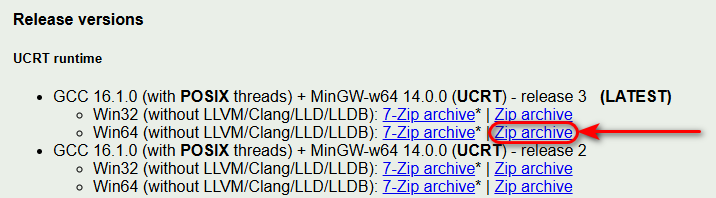
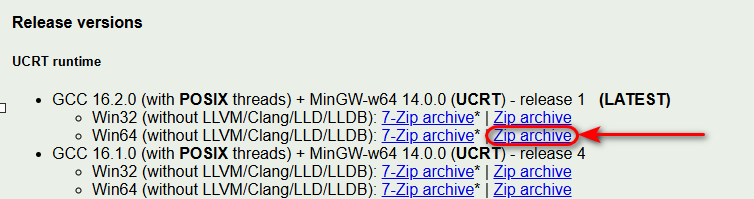
Upgrade to MinGW GCC 16.2

diff --git a/index.html b/index.html
@@ -251,8 +251,8 @@
                         <span class="data-ru">Настройка среды разработки C/C++ для Windows (MinGW, CMake и IDE)</span>
                     </h5>
                     <p class="card-text text-muted small">
-                        <span class="data-en">Installing MinGW 16.1, CMake, Qt Creator, and CLion for professional C/C++ development on Windows.</span>
-                        <span class="data-ru">Установка MinGW 16.1, CMake, Qt Creator и CLion для профессиональной разработки на C/C++ в Windows.</span>
+                        <span class="data-en">Installing MinGW 16.2, CMake, Qt Creator, and CLion for professional C/C++ development on Windows.</span>
+                        <span class="data-ru">Установка MinGW 16.2, CMake, Qt Creator и CLion для профессиональной разработки на C/C++ в Windows.</span>
                     </p>
                     <a href="/tutorials/tools/mingw/setup-mingw/" target="_blank" class="btn btn-outline-dark btn-sm lang-link-dynamic">View</a>
                 </div>
@@ -721,8 +721,8 @@
                         <span class="data-ru">Настройка среды разработки C/C++ для Windows (MinGW, CMake и IDE)</span>
                     </h5>
                     <p class="card-text text-muted small">
-                        <span class="data-en">Installing MinGW 16.1, CMake, Qt Creator, and CLion for professional C/C++ development on Windows.</span>
-                        <span class="data-ru">Установка MinGW 16.1, CMake, Qt Creator и CLion для профессиональной разработки на C/C++ в Windows.</span>
+                        <span class="data-en">Installing MinGW 16.2, CMake, Qt Creator, and CLion for professional C/C++ development on Windows.</span>
+                        <span class="data-ru">Установка MinGW 16.2, CMake, Qt Creator и CLion для профессиональной разработки на C/C++ в Windows.</span>
                     </p>
                     <a href="/tutorials/tools/mingw/setup-mingw/" target="_blank" class="btn btn-outline-dark btn-sm lang-link-dynamic">View</a>
                 </div>
@@ -800,8 +800,8 @@
                         <span class="data-ru">Настройка среды разработки C/C++ для Windows (MinGW, CMake и IDE)</span>
                     </h5>
                     <p class="card-text text-muted small">
-                        <span class="data-en">Installing MinGW 16.1, CMake, Qt Creator, and CLion for professional C/C++ development on Windows.</span>
-                        <span class="data-ru">Установка MinGW 16.1, CMake, Qt Creator и CLion для профессиональной разработки на C/C++ в Windows.</span>
+                        <span class="data-en">Installing MinGW 16.2, CMake, Qt Creator, and CLion for professional C/C++ development on Windows.</span>
+                        <span class="data-ru">Установка MinGW 16.2, CMake, Qt Creator и CLion для профессиональной разработки на C/C++ в Windows.</span>
                     </p>
                     <a href="/tutorials/tools/mingw/setup-mingw/" target="_blank" class="btn btn-outline-dark btn-sm lang-link-dynamic">View</a>
                 </div>
@@ -879,8 +879,8 @@
                         <span class="data-ru">Настройка среды разработки C/C++ для Windows (MinGW, CMake и IDE)</span>
                     </h5>
                     <p class="card-text text-muted small">
-                        <span class="data-en">Installing MinGW 16.1, CMake, Qt Creator, and CLion for professional C/C++ development on Windows.</span>
-                        <span class="data-ru">Установка MinGW 16.1, CMake, Qt Creator и CLion для профессиональной разработки на C/C++ в Windows.</span>
+                        <span class="data-en">Installing MinGW 16.2, CMake, Qt Creator, and CLion for professional C/C++ development on Windows.</span>
+                        <span class="data-ru">Установка MinGW 16.2, CMake, Qt Creator и CLion для профессиональной разработки на C/C++ в Windows.</span>
                     </p>
                     <a href="/tutorials/tools/mingw/setup-mingw/" target="_blank" class="btn btn-outline-dark btn-sm lang-link-dynamic">View</a>
                 </div>
@@ -1027,8 +1027,8 @@
                         <span class="data-ru">Настройка среды разработки C/C++ для Windows (MinGW, CMake и IDE)</span>
                     </h5>
                     <p class="card-text text-muted small">
-                        <span class="data-en">Installing MinGW 16.1, CMake, Qt Creator, and CLion for professional C/C++ development on Windows.</span>
-                        <span class="data-ru">Установка MinGW 16.1, CMake, Qt Creator и CLion для профессиональной разработки на C/C++ в Windows.</span>
+                        <span class="data-en">Installing MinGW 16.2, CMake, Qt Creator, and CLion for professional C/C++ development on Windows.</span>
+                        <span class="data-ru">Установка MinGW 16.2, CMake, Qt Creator и CLion для профессиональной разработки на C/C++ в Windows.</span>
                     </p>
                     <a href="/tutorials/tools/mingw/setup-mingw/" target="_blank" class="btn btn-outline-dark btn-sm lang-link-dynamic">View</a>
                 </div>
@@ -1106,8 +1106,8 @@
                         <span class="data-ru">Настройка среды разработки C/C++ для Windows (MinGW, CMake и IDE)</span>
                     </h5>
                     <p class="card-text text-muted small">
-                        <span class="data-en">Installing MinGW 16.1, CMake, Qt Creator, and CLion for professional C/C++ development on Windows.</span>
-                        <span class="data-ru">Установка MinGW 16.1, CMake, Qt Creator и CLion для профессиональной разработки на C/C++ в Windows.</span>
+                        <span class="data-en">Installing MinGW 16.2, CMake, Qt Creator, and CLion for professional C/C++ development on Windows.</span>
+                        <span class="data-ru">Установка MinGW 16.2, CMake, Qt Creator и CLion для профессиональной разработки на C/C++ в Windows.</span>
                     </p>
                     <a href="/tutorials/tools/mingw/setup-mingw/" target="_blank" class="btn btn-outline-dark btn-sm lang-link-dynamic">View</a>
                 </div>
@@ -1264,8 +1264,8 @@
                         <span class="data-ru">Настройка среды разработки C/C++ для Windows (MinGW, CMake и IDE)</span>
                     </h5>
                     <p class="card-text text-muted small">
-                        <span class="data-en">Installing MinGW 16.1, CMake, Qt Creator, and CLion for professional C/C++ development on Windows.</span>
-                        <span class="data-ru">Установка MinGW 16.1, CMake, Qt Creator и CLion для профессиональной разработки на C/C++ в Windows.</span>
+                        <span class="data-en">Installing MinGW 16.2, CMake, Qt Creator, and CLion for professional C/C++ development on Windows.</span>
+                        <span class="data-ru">Установка MinGW 16.2, CMake, Qt Creator и CLion для профессиональной разработки на C/C++ в Windows.</span>
                     </p>
                     <a href="/tutorials/tools/mingw/setup-mingw/" target="_blank" class="btn btn-outline-dark btn-sm lang-link-dynamic">View</a>
                 </div>
@@ -1389,8 +1389,8 @@
                         <span class="data-ru">Настройка среды разработки C/C++ для Windows (MinGW, CMake и IDE)</span>
                     </h5>
                     <p class="card-text text-muted small">
-                        <span class="data-en">Installing MinGW 16.1, CMake, Qt Creator, and CLion for professional C/C++ development on Windows.</span>
-                        <span class="data-ru">Установка MinGW 16.1, CMake, Qt Creator и CLion для профессиональной разработки на C/C++ в Windows.</span>
+                        <span class="data-en">Installing MinGW 16.2, CMake, Qt Creator, and CLion for professional C/C++ development on Windows.</span>
+                        <span class="data-ru">Установка MinGW 16.2, CMake, Qt Creator и CLion для профессиональной разработки на C/C++ в Windows.</span>
                     </p>
                     <a href="/tutorials/tools/mingw/setup-mingw/" target="_blank" class="btn btn-outline-dark btn-sm lang-link-dynamic">View</a>
                 </div>
@@ -1491,8 +1491,8 @@
                         <span class="data-ru">Настройка среды разработки C/C++ для Windows (MinGW, CMake и IDE)</span>
                     </h5>
                     <p class="card-text text-muted small">
-                        <span class="data-en">Installing MinGW 16.1, CMake, Qt Creator, and CLion for professional C/C++ development on Windows.</span>
-                        <span class="data-ru">Установка MinGW 16.1, CMake, Qt Creator и CLion для профессиональной разработки на C/C++ в Windows.</span>
+                        <span class="data-en">Installing MinGW 16.2, CMake, Qt Creator, and CLion for professional C/C++ development on Windows.</span>
+                        <span class="data-ru">Установка MinGW 16.2, CMake, Qt Creator и CLion для профессиональной разработки на C/C++ в Windows.</span>
                     </p>
                     <a href="/tutorials/tools/mingw/setup-mingw/" target="_blank" class="btn btn-outline-dark btn-sm lang-link-dynamic">View</a>
                 </div>
@@ -1626,8 +1626,8 @@
                         <span class="data-ru">Настройка среды разработки C/C++ для Windows (MinGW, CMake и IDE)</span>
                     </h5>
                     <p class="card-text text-muted small">
-                        <span class="data-en">Installing MinGW 16.1, CMake, Qt Creator, and CLion for professional C/C++ development on Windows.</span>
-                        <span class="data-ru">Установка MinGW 16.1, CMake, Qt Creator и CLion для профессиональной разработки на C/C++ в Windows.</span>
+                        <span class="data-en">Installing MinGW 16.2, CMake, Qt Creator, and CLion for professional C/C++ development on Windows.</span>
+                        <span class="data-ru">Установка MinGW 16.2, CMake, Qt Creator и CLion для профессиональной разработки на C/C++ в Windows.</span>
                     </p>
                     <a href="/tutorials/tools/mingw/setup-mingw/" target="_blank" class="btn btn-outline-dark btn-sm lang-link-dynamic">View</a>
                 </div>

diff --git a/tutorials/tools/mingw/setup-mingw/index.html b/tutorials/tools/mingw/setup-mingw/index.html
@@ -227,17 +227,17 @@
                 allowfullscreen></iframe>
     </div> -->
 
-    <p class="mb-3">
+    <!-- <p class="mb-3">
         <span class="data-en">
             <strong>Prefer video?</strong> You can follow the core setup process (MinGW and CMake) visually in the video below. 
         </span>
         <span class="data-ru">
             <strong>Предпочитаете видео?</strong> Вы можете посмотреть основные этапы настройки (MinGW и CMake) в видео ниже.
         </span>
-    </p>
+    </p> -->
 
     <!-- Single Video Player Container -->
-    <div class="row">
+    <!-- <div class="row">
         <div class="col-md-6">
             <div class="ratio ratio-16x9 mb-4 shadow-sm rounded border overflow-hidden">
                 <iframe 
@@ -254,7 +254,7 @@
                 </iframe>
             </div>
         </div>
-    </div>
+    </div> -->
 
     <!-- <p class="text-muted mb-5">
         <span class="data-en">
@@ -268,19 +268,19 @@
     </p> -->
 
     <h3 class="category-header">
-        <span class="data-en">MinGW 16.1 (WinLibs)</span>
-        <span class="data-ru">MinGW 16.1 (WinLibs)</span>
+        <span class="data-en">MinGW 16.2 (WinLibs)</span>
+        <span class="data-ru">MinGW 16.2 (WinLibs)</span>
     </h3>
 
     <p>
-        <span class="data-en">Go to <a href="https://winlibs.com/" target="_blank" rel="noopener noreferrer">winlibs.com</a>. Download the <strong>GCC 16.1.0</strong> release (Win64, POSIX threads, SEH exceptions):</span>
-        <span class="data-ru">Перейдите на <a href="https://winlibs.com/" target="_blank" rel="noopener noreferrer">winlibs.com</a>. Скачайте версию <strong>GCC 16.1.0</strong> (Win64, POSIX threads, SEH exceptions):</span>
-        <img src="/assets/img/tutorials/tools/mingw/setup-mingw/mingw-link.png" alt="WinLibs GCC 13.1.0 Download Link" class="img-fluid border rounded mt-3 shadow-sm">
+        <span class="data-en">Go to <a href="https://winlibs.com/" target="_blank" rel="noopener noreferrer">winlibs.com</a>. Download the <strong>GCC 16.2.0</strong> release (Win64, POSIX threads, SEH exceptions):</span>
+        <span class="data-ru">Перейдите на <a href="https://winlibs.com/" target="_blank" rel="noopener noreferrer">winlibs.com</a>. Скачайте версию <strong>GCC 16.2.0</strong> (Win64, POSIX threads, SEH exceptions):</span>
+        <img src="/assets/img/tutorials/tools/mingw/setup-mingw/mingw-link.png" alt="WinLibs GCC Download Link" class="img-fluid border rounded mt-3 shadow-sm">
     </p>
 
     <div class="alert alert-info">
-        <span class="data-en"><strong>Installation:</strong> Extract the folder to a simple path without spaces, for example: <code>C:\mingw64_16.1</code></span>
-        <span class="data-ru"><strong>Установка:</strong> Извлеките папку по простому пути без пробелов, например: <code>C:\mingw64_16.1</code>.</span>
+        <span class="data-en"><strong>Installation:</strong> Extract the folder to a simple path without spaces, for example: <code>C:\mingw64_16.2</code></span>
+        <span class="data-ru"><strong>Установка:</strong> Извлеките папку по простому пути без пробелов, например: <code>C:\mingw64_16.2</code>.</span>
     </div>
 
     <h3 class="category-header">
@@ -292,11 +292,11 @@
         <span class="data-ru">Добавьте папку <code>bin</code> вашего MinGW в системную переменную Path, чтобы использовать <code>g++</code> и <code>make</code> в любом терминале.</span>
     </p>
     <pre><code class="language-bash"># Add this to your System PATH:
-C:\mingw64_16.1\bin</code></pre>
+C:\mingw64_16.2\bin</code></pre>
 
     <h3 class="category-header">
-        <span class="data-en">3. CMake Installation</span>
-        <span class="data-ru">3. Установка CMake</span>
+        <span class="data-en">CMake Installation</span>
+        <span class="data-ru">Установка CMake</span>
     </h3>
     <p>
         <span class="data-en">Download the Windows x64 Installer (<code>.msi</code>) from the <a href="https://cmake.org/download/" target="_blank" rel="noopener noreferrer">Official CMake Website</a>.</span>
@@ -308,20 +308,20 @@ C:\mingw64_16.1\bin</code></pre>
     </div>
 
     <h3 class="category-header">
-        <span class="data-en">4. IDE & Editor Setup (Sublime, Qt Creator, CLion)</span>
-        <span class="data-ru">4. Установка IDE и редакторов (Sublime, Qt Creator, CLion)</span>
+        <span class="data-en">IDE & Editor Setup (Sublime, Qt Creator, CLion)</span>
+        <span class="data-ru">Установка IDE и редакторов (Sublime, Qt Creator, CLion)</span>
     </h3>
     <ul>
-        <li>
-            <strong>Sublime Text 4:</strong> 
-            <span class="data-en">Download from the <a href="https://www.sublimetext.com/download" target="_blank" rel="noopener noreferrer">official website</a>. It is a sophisticated text editor for code, markup, and prose that works perfectly with MinGW via the build systems.</span>
-            <span class="data-ru">Скачайте с <a href="https://www.sublimetext.com/download" target="_blank" rel="noopener noreferrer">официального сайта</a>. Это продвинутый текстовый редактор для кода, разметки и прозы, который отлично работает с MinGW через системы сборки.</span>
-        </li>
         <!-- <li>
             <strong>Qt Creator:</strong> 
             <span class="data-en">Download the standalone Windows installer (<code>.msi</code>) from the <a href="https://github.com/qt-creator/qt-creator/releases" target="_blank" rel="noopener noreferrer">Official GitHub Releases</a>. This provides the IDE without requiring a full Qt Framework installation.</span>
             <span class="data-ru">Скачайте автономный установщик Windows (<code>.msi</code>) с <a href="https://github.com/qt-creator/qt-creator/releases" target="_blank" rel="noopener noreferrer">официальных релизов GitHub</a>. Это позволит установить IDE без необходимости загрузки всего фреймворка Qt.</span>
         </li> -->
+        <li>
+            <strong>CLion:</strong> 
+            <span class="data-en">Install via <a href="https://www.jetbrains.com/clion/download/" target="_blank" rel="noopener noreferrer">JetBrains</a>. CLion is now <strong>free for non-commercial use</strong> (learning, hobby development, and open-source)</span>
+            <span class="data-ru">Установите через <a href="https://www.jetbrains.com/clion/download/" target="_blank" rel="noopener noreferrer">JetBrains</a>. CLion теперь <strong>бесплатна для некоммерческого использования</strong> (обучение, хобби, open-source)</span>
+        </li>
         <li>
             <strong>Qt Creator:</strong> 
             <span class="data-en">
@@ -334,9 +334,9 @@ C:\mingw64_16.1\bin</code></pre>
             </span>
         </li>
         <li>
-            <strong>CLion:</strong> 
-            <span class="data-en">Install via <a href="https://www.jetbrains.com/clion/download/" target="_blank" rel="noopener noreferrer">JetBrains</a>. CLion is now <strong>free for non-commercial use</strong> (learning, hobby development, and open-source)</span>
-            <span class="data-ru">Установите через <a href="https://www.jetbrains.com/clion/download/" target="_blank" rel="noopener noreferrer">JetBrains</a>. CLion теперь <strong>бесплатна для некоммерческого использования</strong> (обучение, хобби, open-source)</span>
+            <strong>Sublime Text 4:</strong> 
+            <span class="data-en">Download from the <a href="https://www.sublimetext.com/download" target="_blank" rel="noopener noreferrer">official website</a>. It is a sophisticated text editor for code, markup, and prose that works perfectly with MinGW via the build systems.</span>
+            <span class="data-ru">Скачайте с <a href="https://www.sublimetext.com/download" target="_blank" rel="noopener noreferrer">официального сайта</a>. Это продвинутый текстовый редактор для кода, разметки и прозы, который отлично работает с MinGW через системы сборки.</span>
         </li>
     </ul>
 
